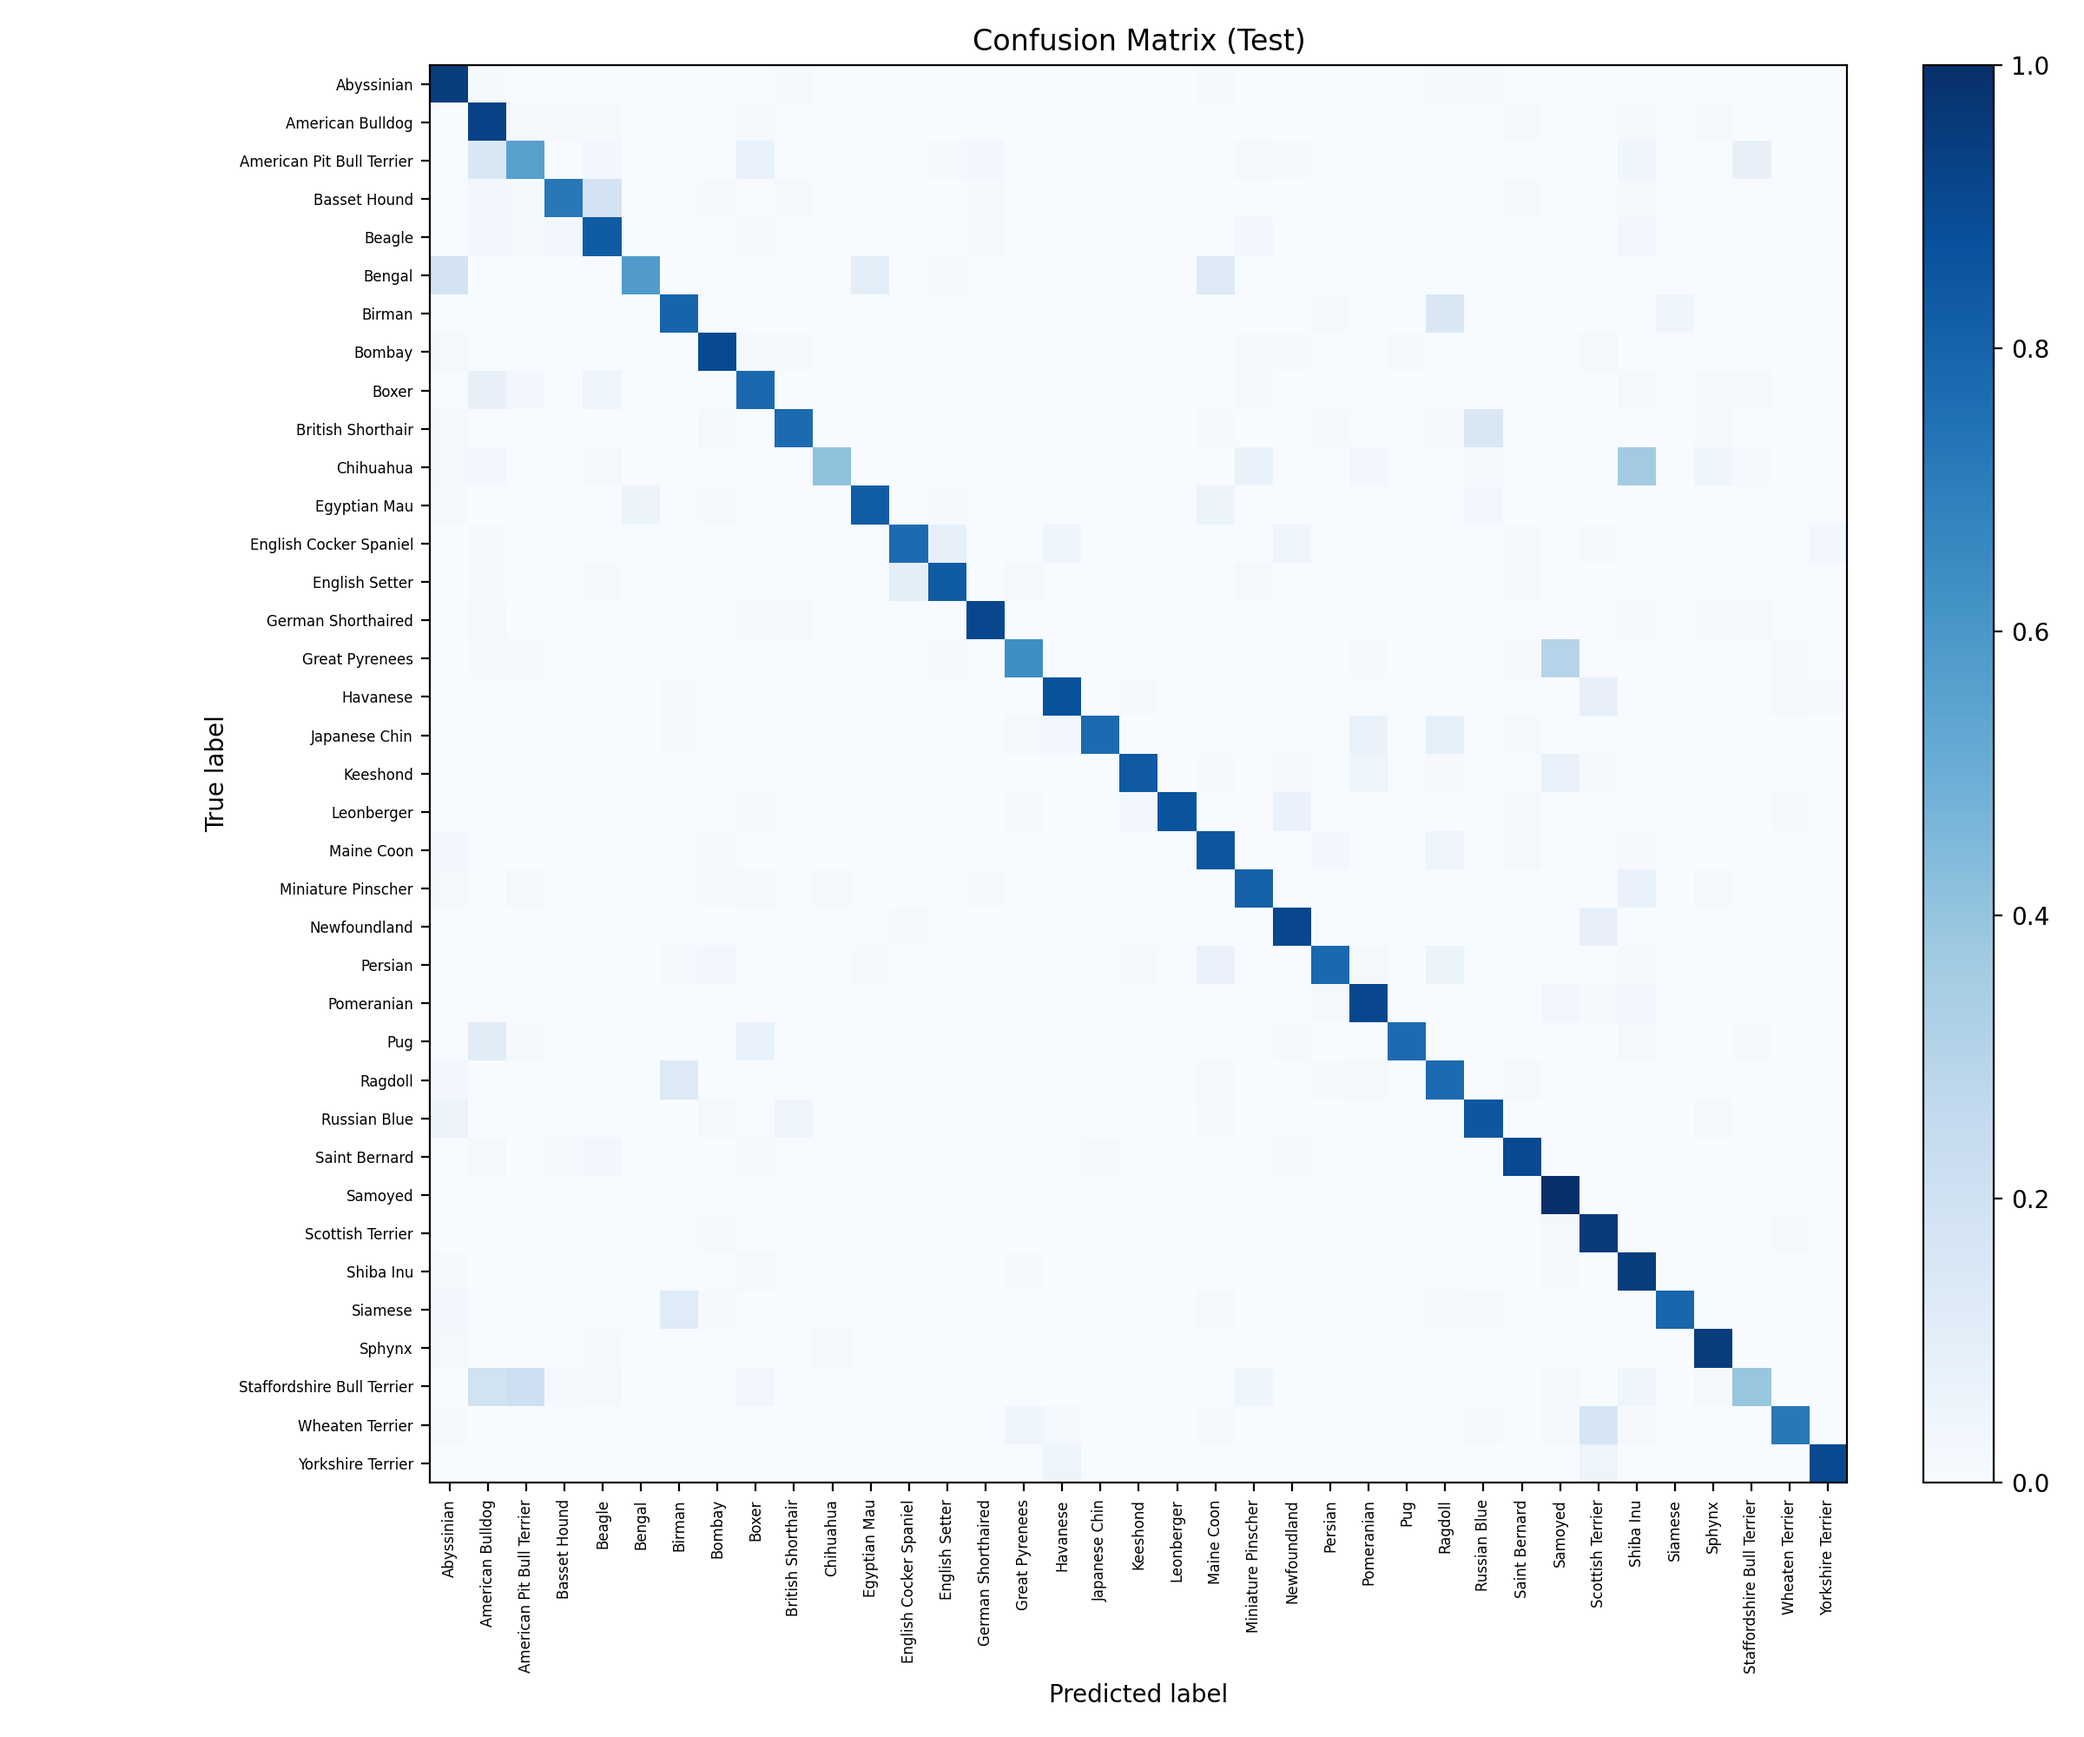
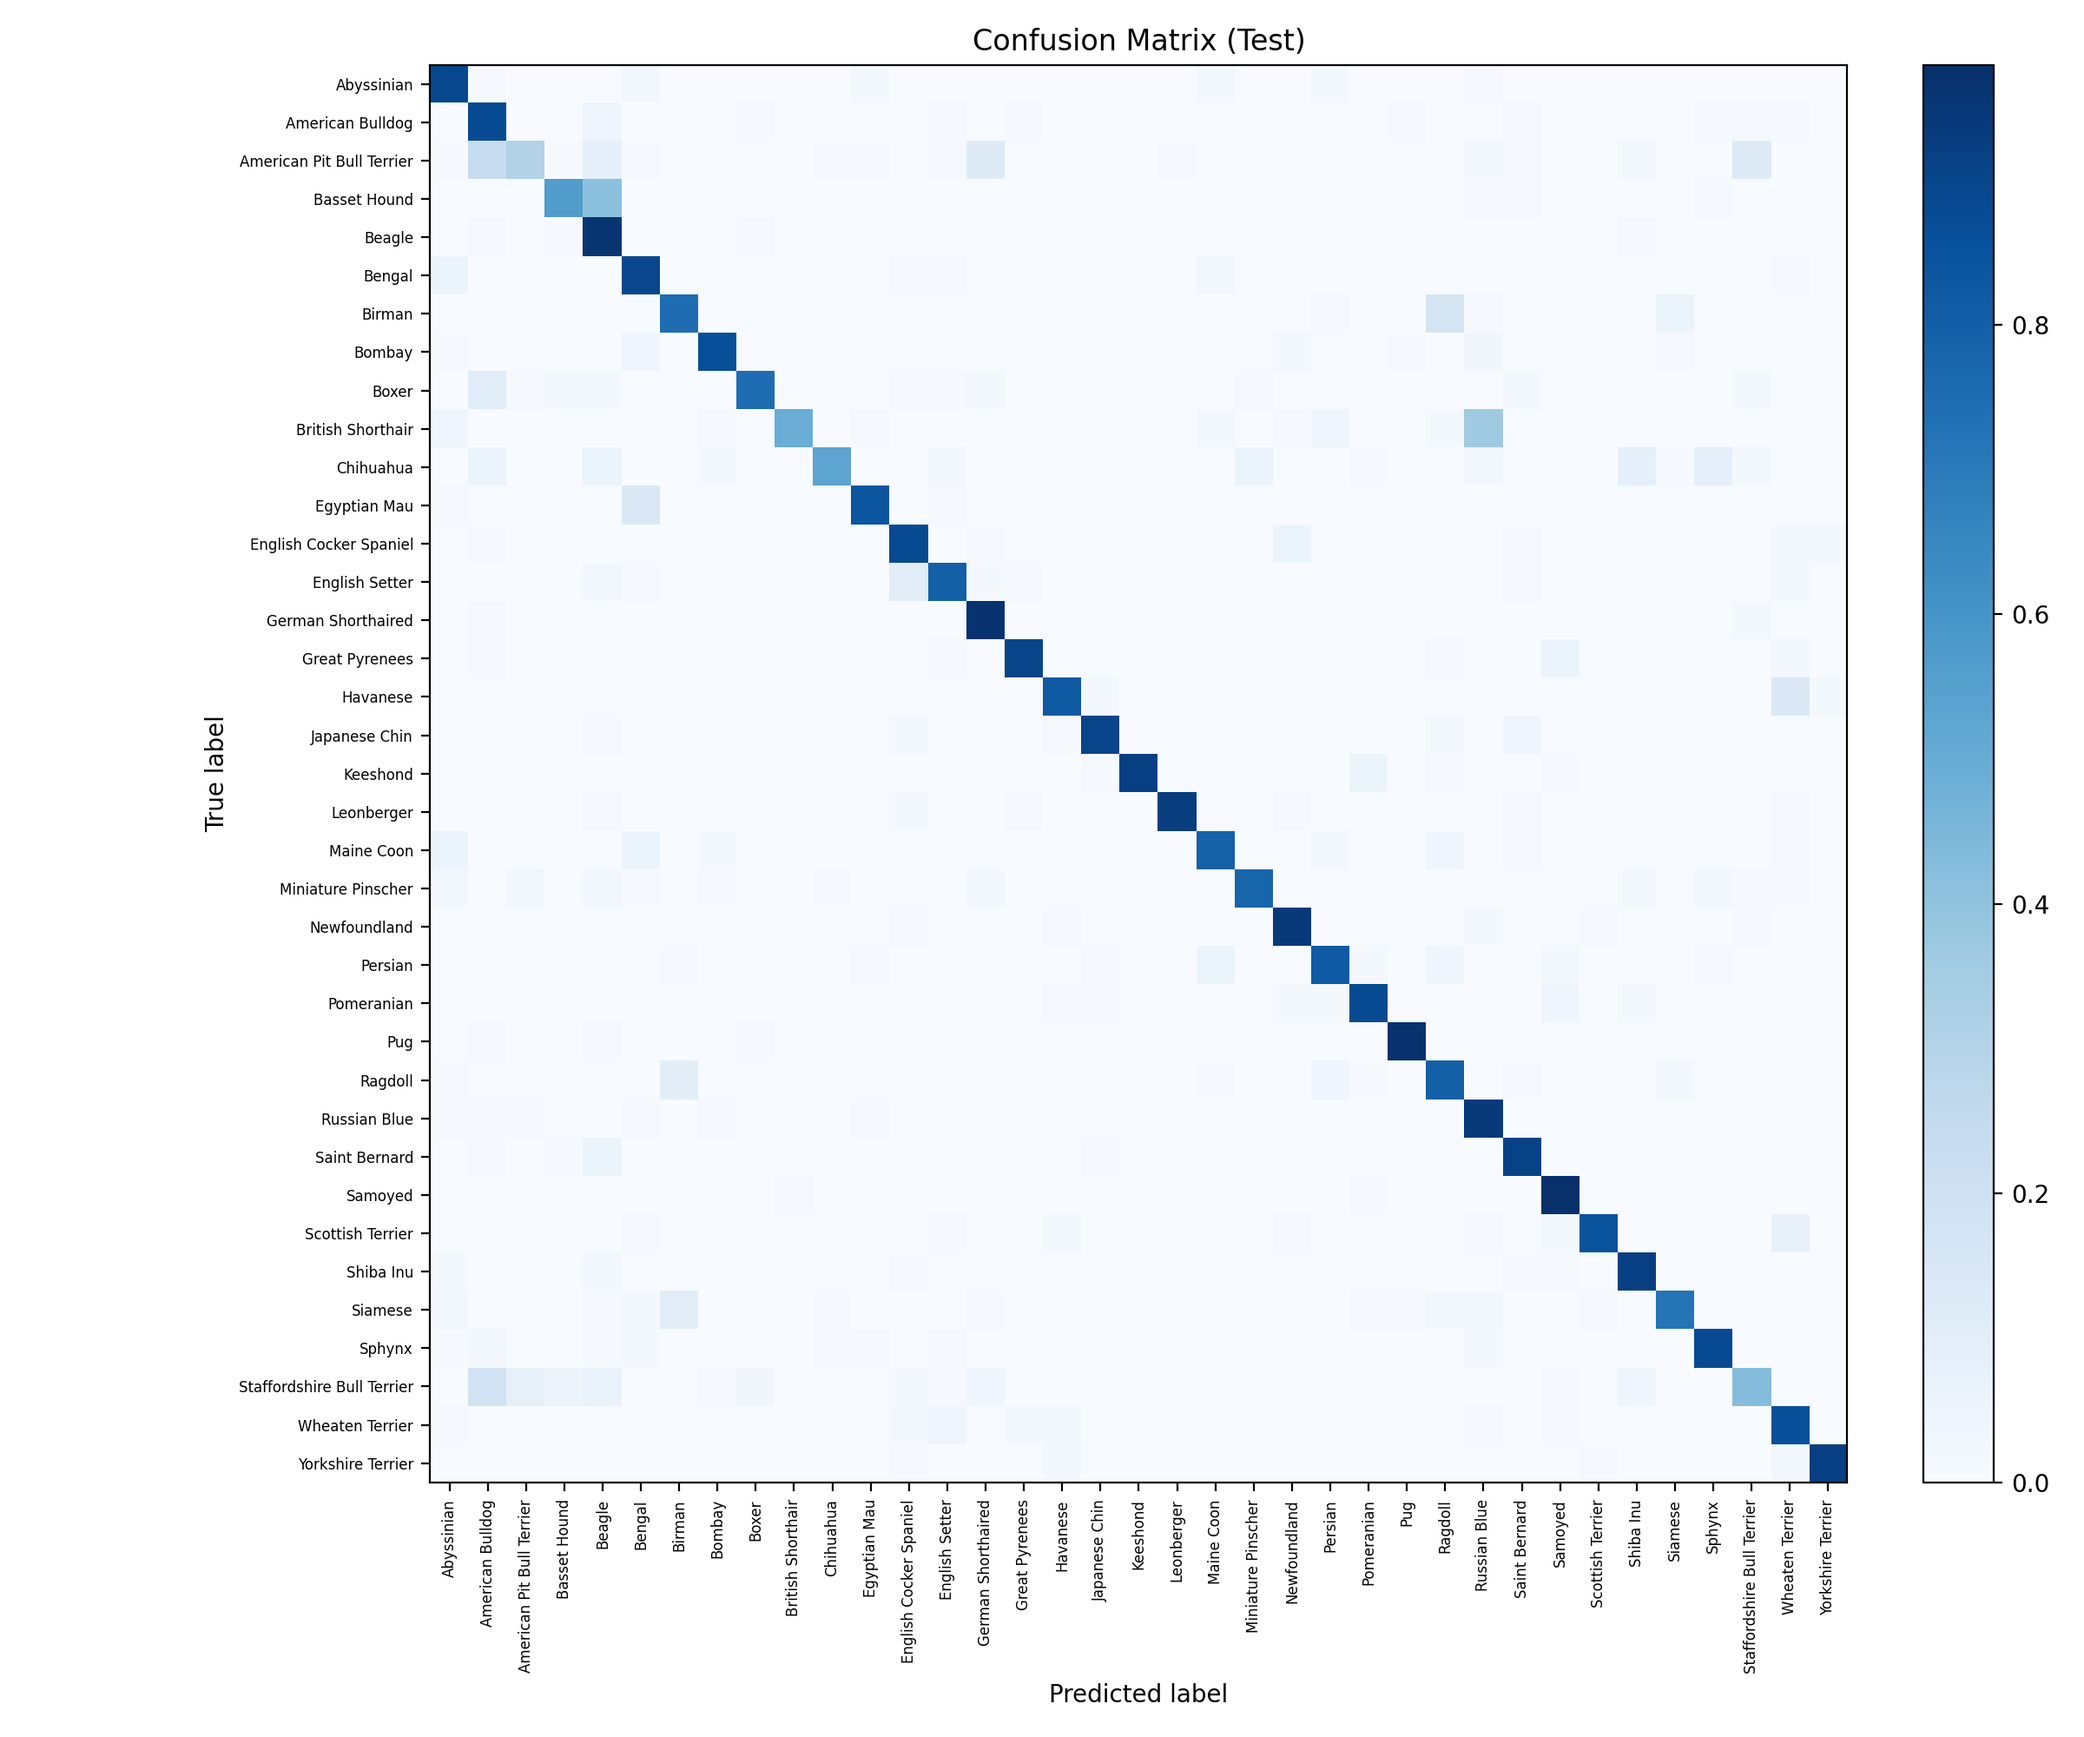
Document baseline experiment results and update showcase assets

diff --git a/README.md b/README.md
@@ -72,13 +72,39 @@ python -m src.eval --ckpt checkpoints/best.pt --split test --cm-out assets/confu
 
 ## Results
 
-| Split | acc@1 | acc@5 |
-| --- | --- | --- |
-| Val | 0.832 | 0.988 |
-| Test | 0.805 | 0.980 |
+### Baseline experiment
+
+Training command used for the baseline below:
+
+```bash
+python -m src.train --config configs/default.yaml --epochs 15
+```
+
+| Parameter | Value |
+| --- | --- |
+| Model | ResNet18 (ImageNet pretrained) |
+| Dataset | Oxford-IIIT Pets (37 classes) |
+| Epochs | 15 (best checkpoint at epoch 7 by val acc@1) |
+| Batch size | 32 |
+| Optimizer | AdamW |
+| Learning rate | 3e-4 |
+| Scheduler | none |
+
+### Final metrics (best checkpoint)
+
+| Split | loss | acc@1 | acc@5 |
+| --- | --- | --- | --- |
+| Val | 0.4513 | 0.863 | 0.986 |
+| Test | 0.5881 | 0.817 | 0.974 |
 
 ![Confusion matrix](assets/confusion_matrix.png)
 ![Training curves](assets/training_curves.png)
+
+### Observations
+
+- Validation top-1 peaks at epoch 7, then does not improve meaningfully.
+- Around epochs 10-12+, val loss trends worse while train accuracy keeps increasing, indicating overfitting.
+- Top-5 stays high, so most errors are near-misses between visually similar breeds.
 
 ## Predict
 
